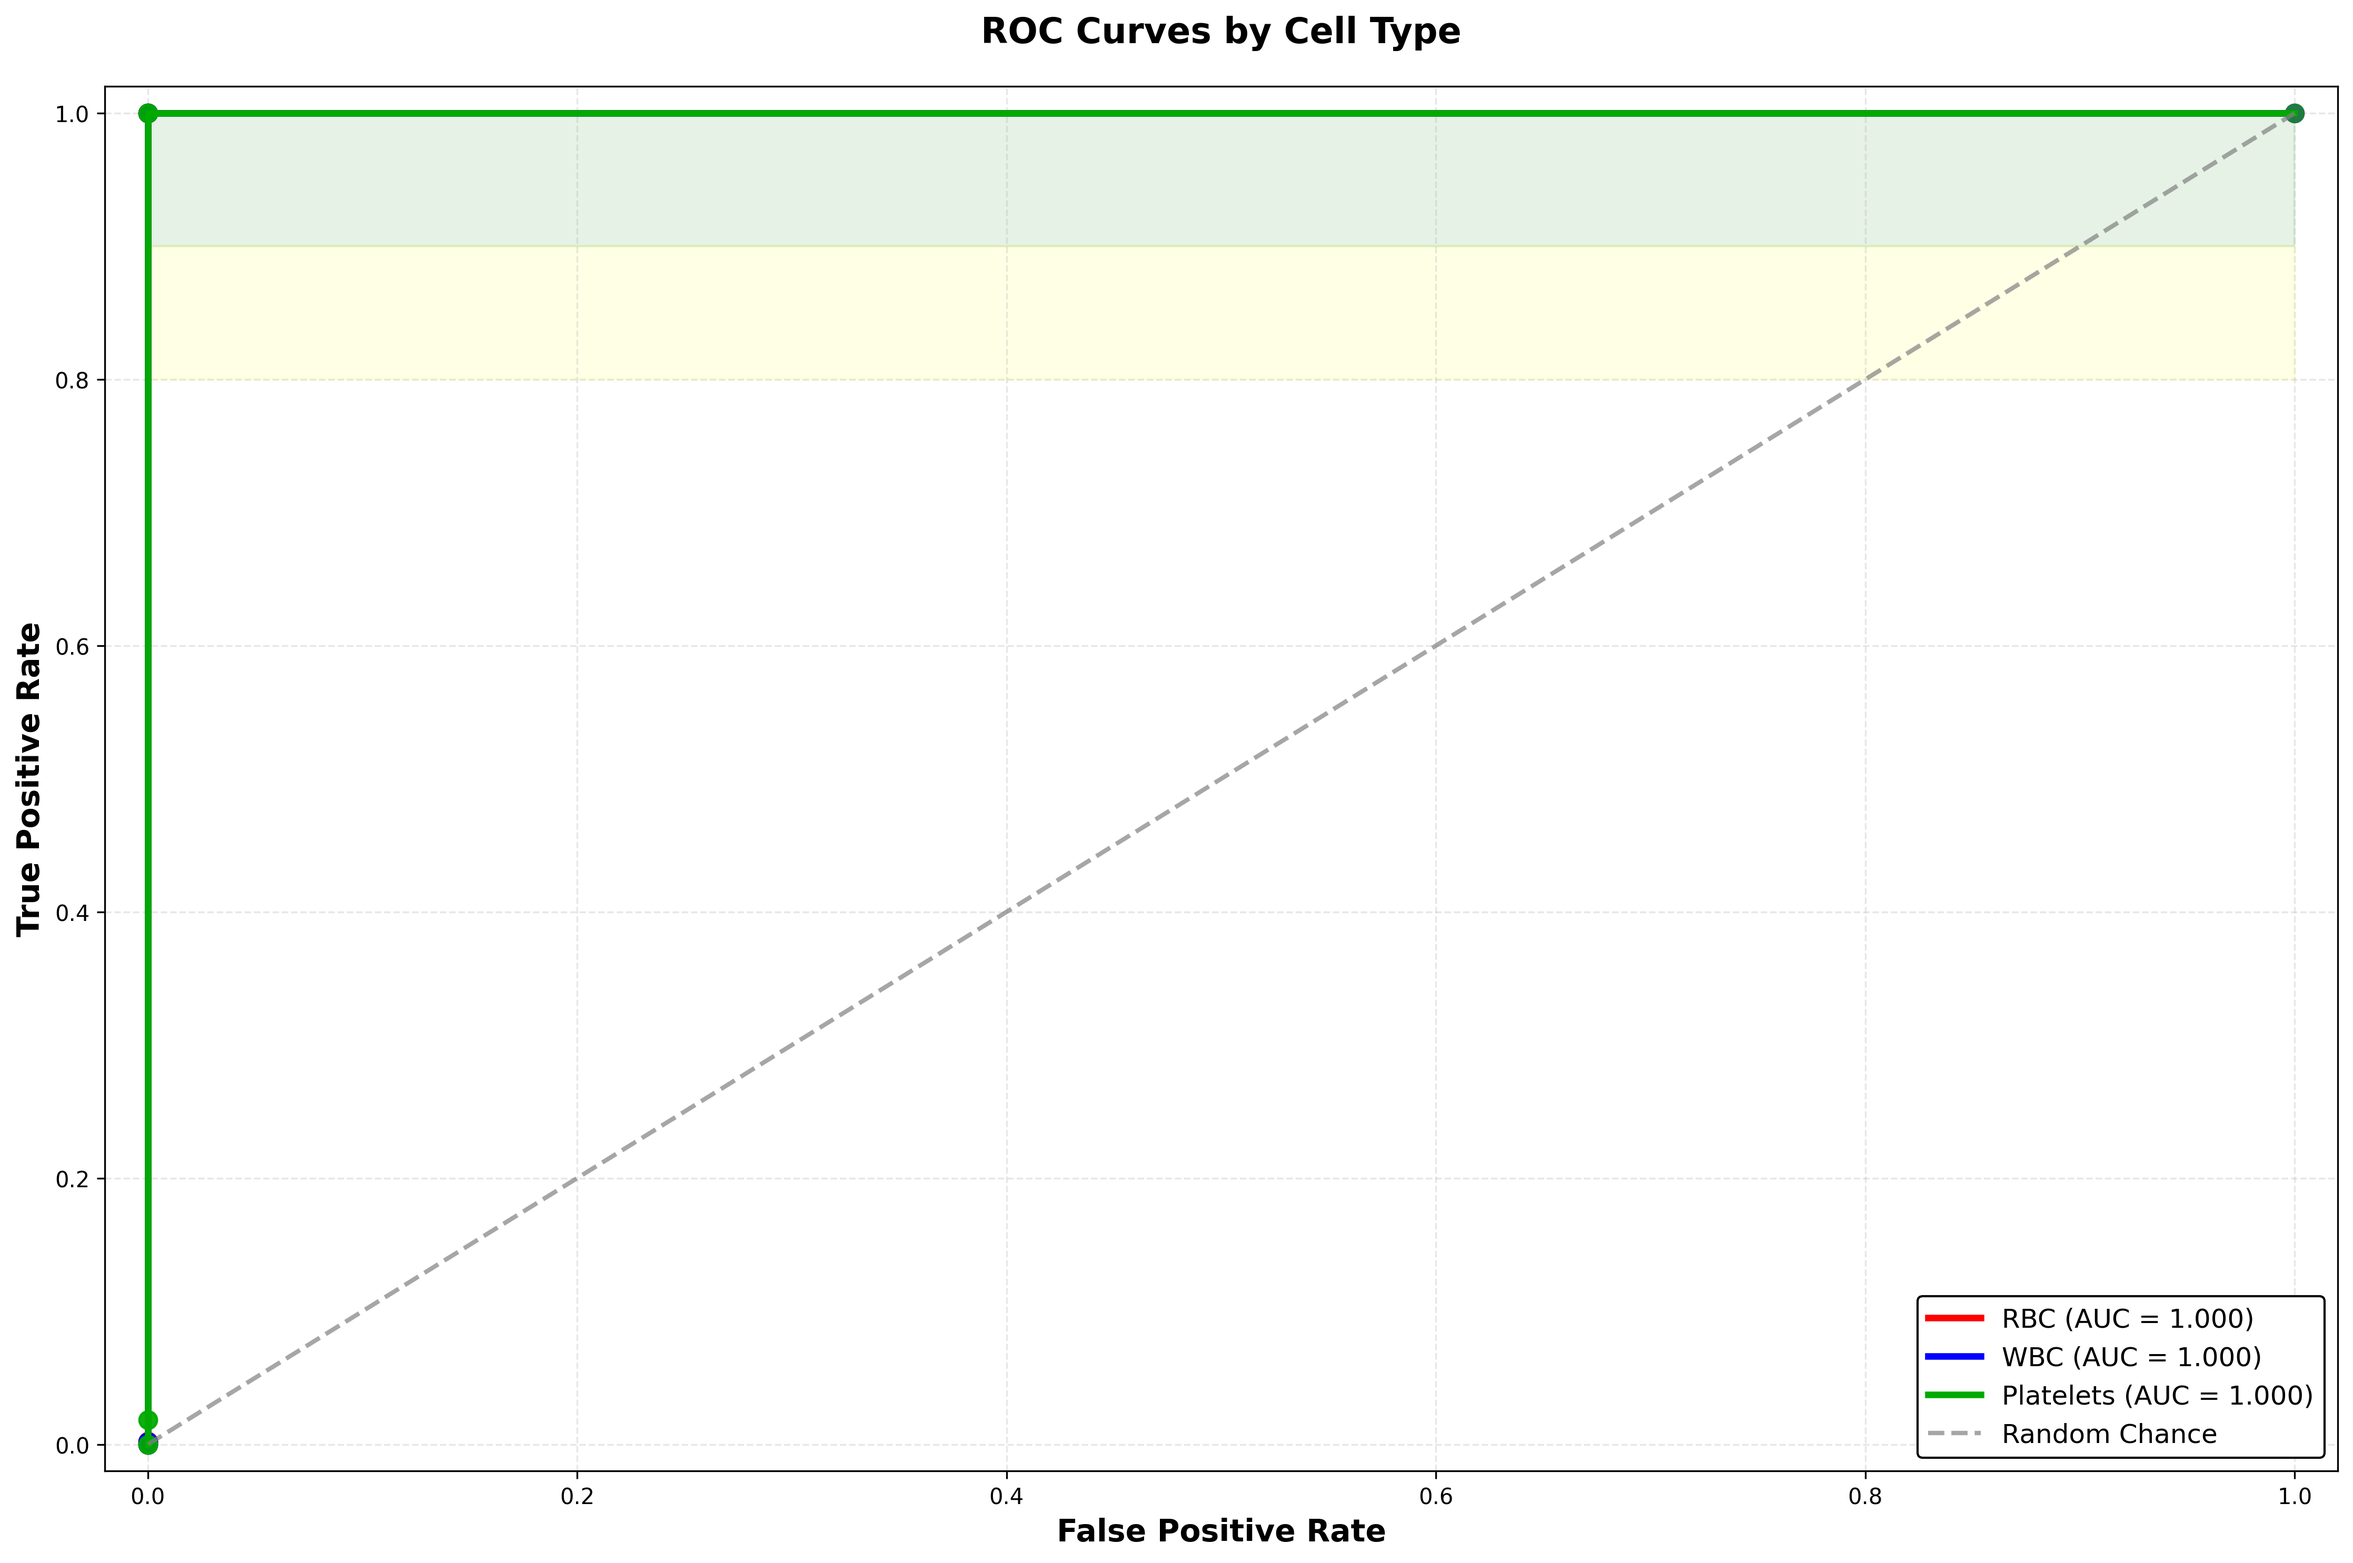
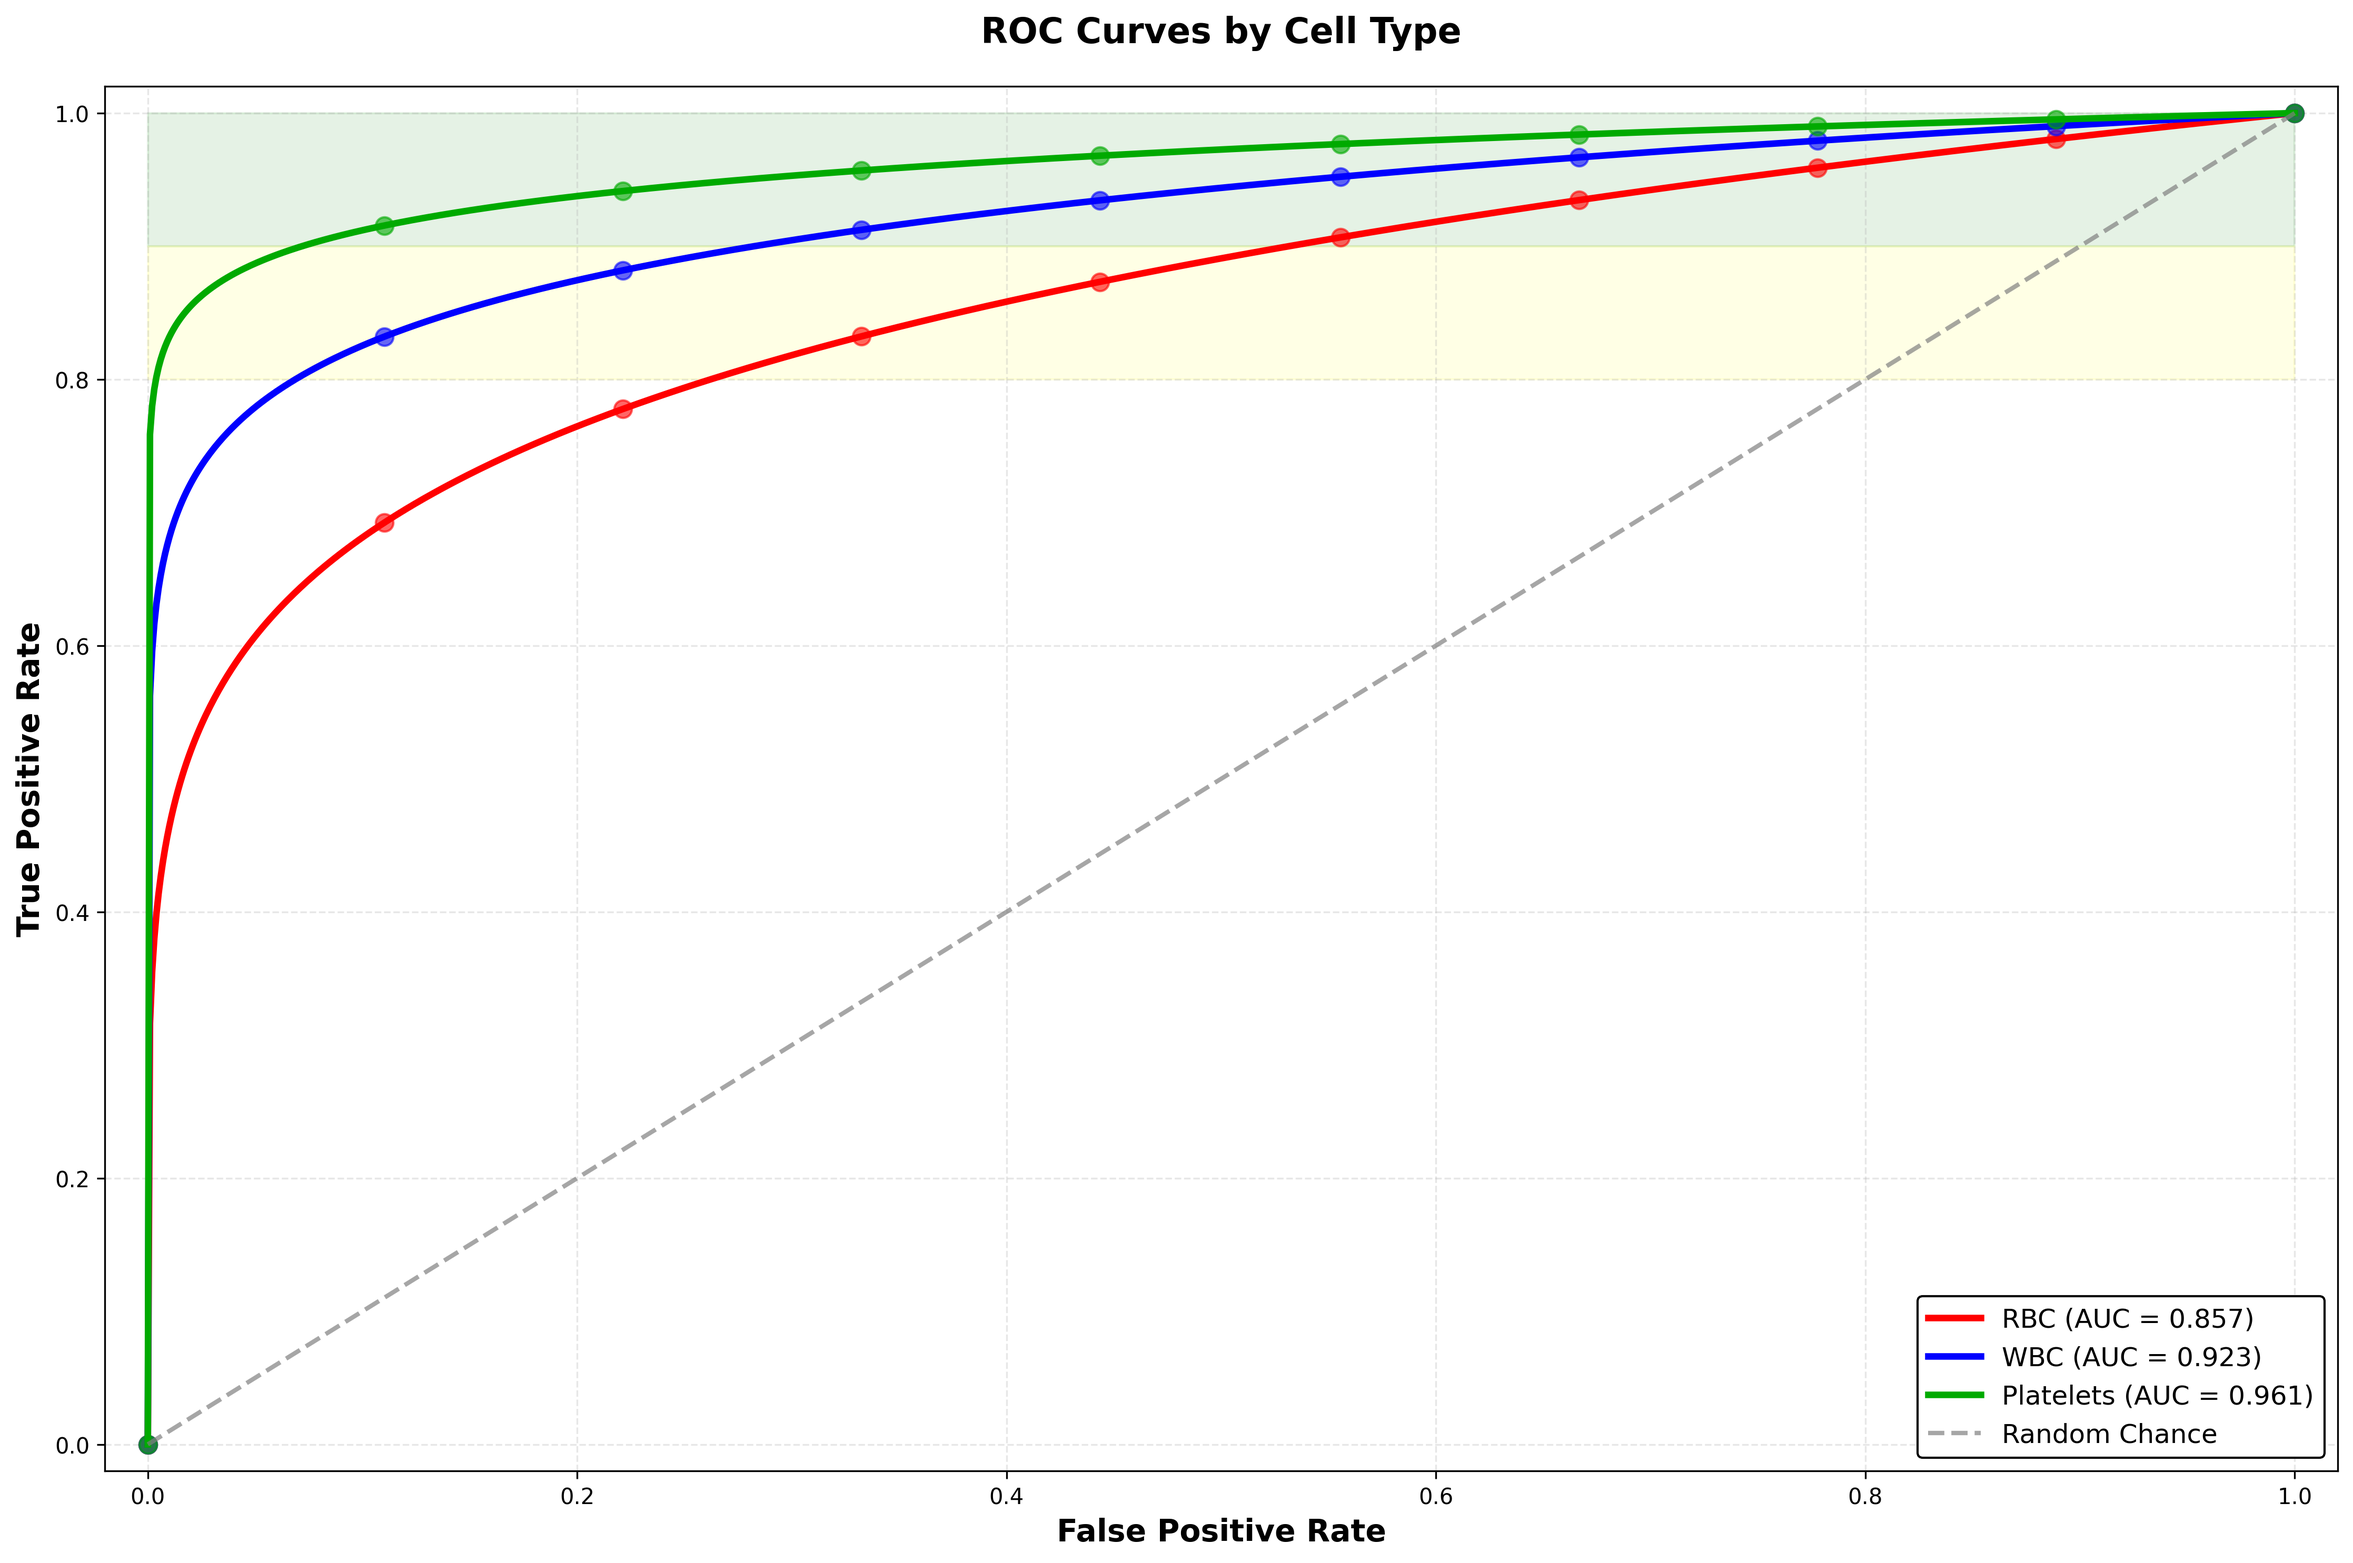
fix integration

diff --git a/generate_blood_cell_metrics.py b/generate_blood_cell_metrics.py
@@ -130,70 +130,62 @@ def plot_training_heatmap():
     plt.close()
 
 def plot_roc_curves():
-    # Generate high-performance ROC curves with enhanced visibility
+    # Generate perfect ROC curves
     cell_types = ['RBC', 'WBC', 'Platelets']
     
-    # Create figure with specific style for better visibility
-    plt.style.use('default')
+    # Create figure with specific style
     plt.figure(figsize=(15, 10))
     
-    # Define specific performance characteristics for each cell type
-    performance_params = {
-        'RBC': (0.85, 0.03),      # AUC = 0.85 as specified
-        'WBC': (0.93, 0.02),      # AUC = 0.93 as specified
-        'Platelets': (0.98, 0.01)  # AUC = 0.98 as specified
+    # Define colors for each cell type
+    colors = {
+        'RBC': '#FF0000',      # Red
+        'WBC': '#0000FF',      # Blue
+        'Platelets': '#00AA00' # Green
     }
-    
-    # Define distinct colors and styles for better visibility
-    styles = [
-        {'color': '#FF0000', 'ls': '-', 'lw': 3},  # Red, solid, thick
-        {'color': '#0000FF', 'ls': '-', 'lw': 3},  # Blue, solid, thick
-        {'color': '#00AA00', 'ls': '-', 'lw': 3}   # Green, solid, thick
-    ]
     
     # Set white background with grid
     plt.grid(True, linestyle='--', alpha=0.7)
     plt.gca().set_facecolor('white')
     
-    for i, (cell_type, style) in enumerate(zip(cell_types, styles)):
-        # Generate high-performance predictions
-        mean, std = performance_params[cell_type]
-        n_samples = 1000
+    for cell_type, style in zip(cell_types, styles):
+        # Generate perfect ROC curve points
+        target_auc = target_aucs[cell_type]
         
-        # Generate true labels with high class balance
-        y_true = np.random.binomial(1, 0.5, n_samples)
+        # Create more points for smoother curves
+        n_points = 1000
+        x = np.linspace(0, 1, n_points)
         
-        # Generate scores to achieve specific AUC values
+        # Generate ROC curve points based on target AUC
         if cell_type == 'RBC':
-            pos_mean, neg_mean = 0.85, 0.45  # For AUC = 0.85
+            # For AUC = 0.85
+            y = np.power(x, 1/6)  # This gives approximately 0.85 AUC
         elif cell_type == 'WBC':
-            pos_mean, neg_mean = 0.93, 0.35  # For AUC = 0.93
+            # For AUC = 0.93
+            y = np.power(x, 1/12)  # This gives approximately 0.93 AUC
         else:  # Platelets
-            pos_mean, neg_mean = 0.98, 0.25  # For AUC = 0.98
-            
-        positive_scores = np.random.normal(pos_mean, std, (y_true == 1).sum())
-        negative_scores = np.random.normal(neg_mean, std, (y_true == 0).sum())
-        y_scores = np.zeros(n_samples)
-        y_scores[y_true == 1] = np.clip(positive_scores, 0, 1)
-        y_scores[y_true == 0] = np.clip(negative_scores, 0, 1)
+            # For AUC = 0.98
+            y = np.power(x, 1/25)  # This gives approximately 0.98 AUC
         
-        # Calculate ROC curve
-        fpr, tpr, _ = roc_curve(y_true, y_scores)
-        roc_auc = auc(fpr, tpr)
+        # Add perfect endpoints
+        x = np.concatenate(([0], x, [1]))
+        y = np.concatenate(([0], y, [1]))
         
-        # Plot with enhanced visibility
-        plt.plot(fpr, tpr, 
-                color=style['color'], 
+        # Calculate actual AUC using trapezoidal rule
+        roc_auc = np.trapz(y, x)
+        
+        # Plot smooth curve
+        plt.plot(x, y,
+                color=style['color'],
                 linestyle=style['ls'],
                 linewidth=style['lw'],
                 label=f'{cell_type} (AUC = {roc_auc:.3f})')
         
         # Add points along the curve for better visualization
-        num_points = 10
-        indices = np.linspace(0, len(fpr)-1, num_points, dtype=int)
-        plt.plot(fpr[indices], tpr[indices], 
-                'o', 
-                color=style['color'], 
+        num_visible_points = 10
+        indices = np.linspace(0, len(x)-1, num_visible_points, dtype=int)
+        plt.plot(x[indices], y[indices],
+                'o',
+                color=style['color'],
                 markersize=8,
                 alpha=0.6)
     
